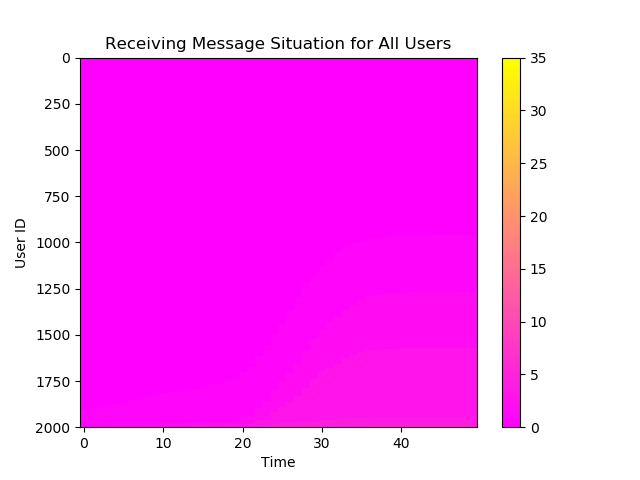
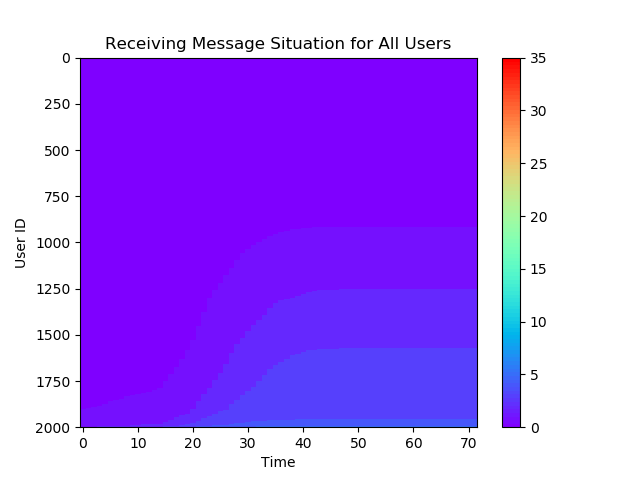
add PageRank policy

diff --git a/rumorTest/optimize.py b/rumorTest/optimize.py
@@ -82,24 +82,28 @@ def main(path="./Graph2k.pickle"):
     pr = nx.pagerank_numpy(g)
     pr = sorted(pr, key=lambda key: pr[key], reverse=True)
     print("%f s: Get pagerank and sort user according to it. " % (time()-start_time))
+    selected_by_pagerank = pr[:50]
 
     # # time for calculate network constraint is so long!!! I give up.
     # nc = nx.constraint(g)
     # nc = sorted(nc, key=lambda key: nc[key], reverse=True)
     # print("%f s: Get network constraint and sort user according to it. " % (time()-start_time))
 
-    influence = dfs(g, pr[:100])
+    influence = dfs(g, pr[:200])
     big_name = sorted(influence, key=lambda key: influence[key], reverse=True)
     print("%f s: Get influence of each celebrity. " % (time()-start_time))
-    selected = big_name[:50]
+    selected_by_influence = big_name[:50]
 
     # Stochastic policy
-    blue_sources = list(choice(list(set(g.nodes)-set(selected)), 50))
+    blue_sources = list(choice(list(set(g.nodes)-set(selected_by_influence)-set(selected_by_pagerank)), 50))
     red_sources = list(choice(list(set(g.nodes)-set(blue_sources)), 50))
     simu_and_plot(net, red_sources+blue_sources, [1] * 50 + [0] * 50, "Stochastic")
 
     # our policy
-    simu_and_plot(net, selected + blue_sources, [1] * 50 + [0] * 50, "Designed")
+    simu_and_plot(net, selected_by_influence + blue_sources, [1] * 50 + [0] * 50, "Influence")
+
+    # pagerank policy
+    simu_and_plot(net, selected_by_pagerank + blue_sources, [1] * 50 + [0] * 50, "PageRank")
 
 
 if __name__ == '__main__':

diff --git a/rumorTest/informationFlow.py b/rumorTest/informationFlow.py
@@ -52,7 +52,7 @@ class Net(object):
         #         对于每一个消息源头,先随机生成一次图
         #         根据随机生成的图跑一次最短路径算法
         #         得到每一个节点收到消息的时间,没收到用大数表示
-        MaxTime = 50
+        MaxTime = 72
         Rec = np.zeros([self.Num, MaxTime])
         politicRed = np.zeros([self.Num, MaxTime])
         politicBlue = np.zeros([self.Num, MaxTime])
